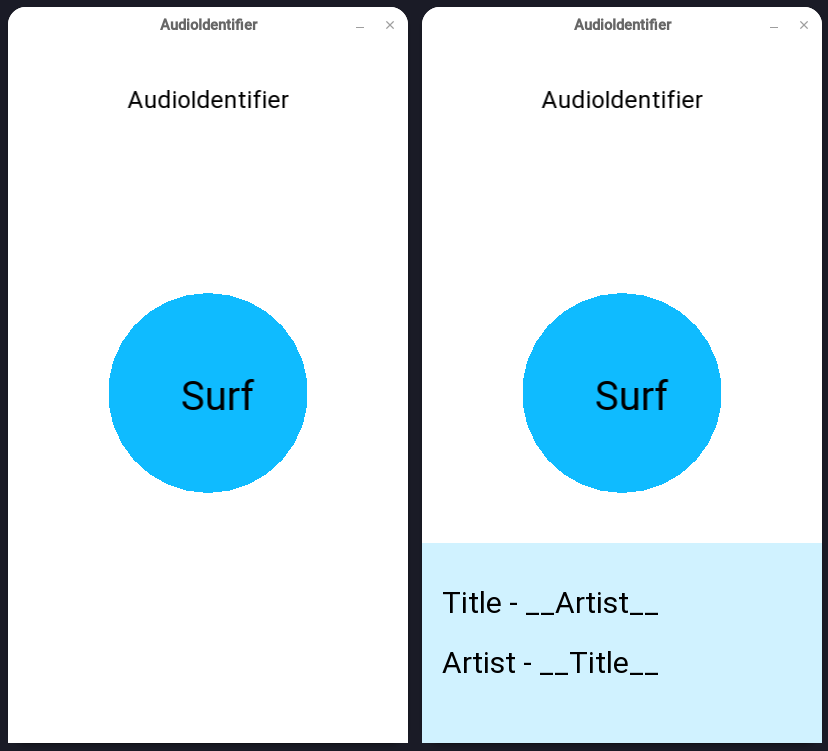
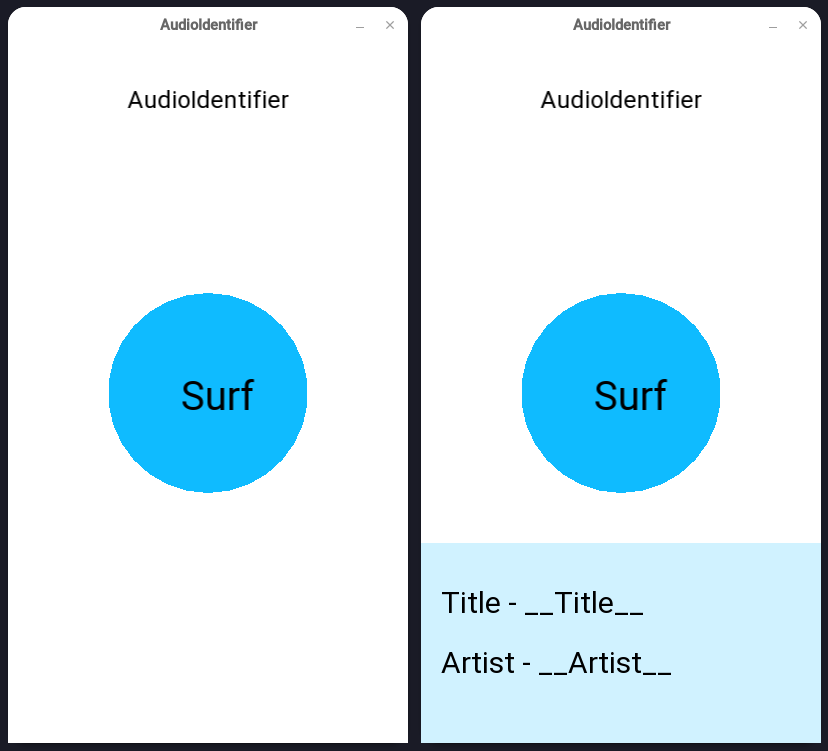
Updated

diff --git a/UI/UIManager.cpp b/UI/UIManager.cpp
@@ -134,7 +134,7 @@ void AudioIdentifier::HandleRecordedData() {
   } else {
     LOG_WARNING("No match found");
   }
-  data_->SetData(artist, title);
+  data_->SetData(title, artist);
   data_->ChangeState();
 }
 
